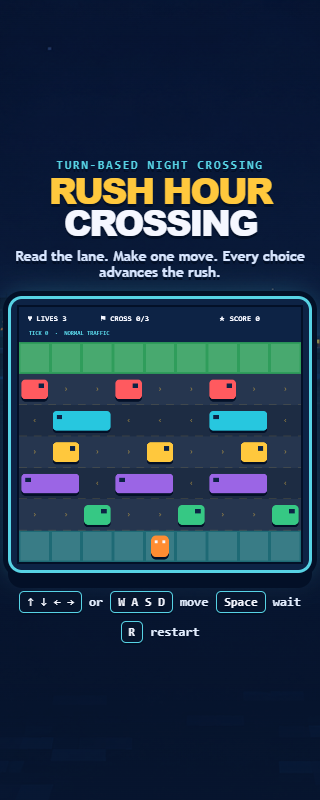
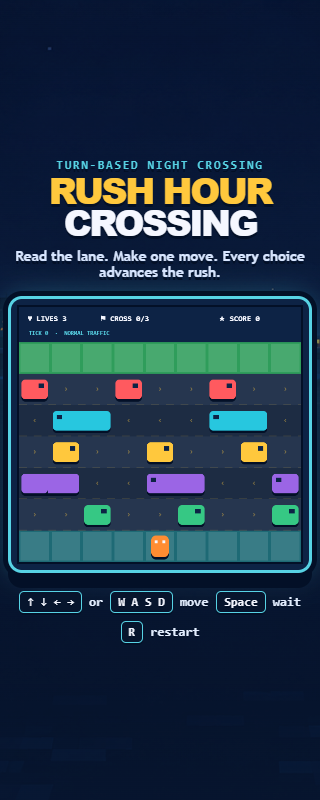
docs: align evidence with the reverted preset and record limitations
Re-verify from code at 26ae68b (clean npm ci, 43 tests, build, audit)
and re-capture screenshots. Record the normal row-4 vehicle overlap and
the unwinnable hard preset as known limitations, mark E4 as failing only
for normal row 4, and show the wrap case with row 2 at tick 4.

Changed region(s): [[0.5312, 0.5938, 0.9375, 0.625], [0.3438, 0.5938, 0.4688, 0.625]]

diff --git a/docs/EVIDENCE_003.md b/docs/EVIDENCE_003.md
@@ -2,12 +2,12 @@
 
 This document has two parts:
 
-1. **Current state.** The only evidence that describes the project as it is now. Every result was produced on 2026-09-23 from the code at commit `d42607f`. Later commits change documentation and evidence files only.
+1. **Current state.** The only evidence that describes the project as it is now. Every result was produced on 2026-09-23 from the code at commit `26ae68b`. Later commits change documentation and evidence files only.
 2. **Development history.** The process record the assignment requires: F0, baseline, controlled change, and later corrections. Numbers in that part were true on their own date and are superseded by part 1.
 
 ---
 
-# Part 1 — Current state (verified 2026-09-23, code at `d42607f`)
+# Part 1 — Current state (verified 2026-09-23, code at `26ae68b`)
 
 ## Environment
 
@@ -23,7 +23,7 @@ All commands were run in sequence from a clean `npm ci`, with no dev server runn
 |---|---:|---|
 | `npm ci` | 0 | Installed from `package-lock.json`; `found 0 vulnerabilities` |
 | `npm run typecheck` | 0 | `tsc --noEmit` completed without diagnostics |
-| `npm run test:run` | 0 | 7 test files, 46 tests passed |
+| `npm run test:run` | 0 | 7 test files, 43 tests passed |
 | `npm run build` | 0 | Vite 8.3.0, 14 modules transformed, production build completed |
 | `npm audit --audit-level=high` | 0 | 0 vulnerabilities (info 0, low 0, moderate 0, high 0, critical 0) across 83 dependencies |
 
@@ -47,7 +47,7 @@ Method: a Vite dev server served the current `main`, and a scripted headless Chr
 | Restart (R7) | after the loss, R | 3 lives, 0/1, score 0, tick 0, `active` | — |
 | Reduced motion | `/`, Space, reduce | `.board-frame` has no `turn-flash` class; transition 0 s; filter and transform `none` | — |
 | Motion allowed | `/`, Space, no-preference | `turn-flash` applied: 0.18 s transition, `brightness(1.13)`, 2 px lift; turn state is identical | — |
-| E4 wrap case | `/`, Space ×2 (normal preset, tick 2) | Row-4 vehicle wrapping across columns 8 and 0 is drawn as two edge segments with one windshield in total | [`e4-wrap-normal-tick2.png`](evidence/e4-wrap-normal-tick2.png) |
+| E4 wrap case | `/`, Space ×4 (normal preset, tick 4) | Row-2 vehicle wrapping across columns 8 and 0 is drawn as two edge segments with one windshield in total. Row 4 in the same image shows the known overlap (see Known limitations) | [`e4-wrap-normal-tick4.png`](evidence/e4-wrap-normal-tick4.png) |
 
 The operating-system reduced-motion setting was not toggled. The media feature was emulated through the DevTools protocol, which is what the CSS query reads.
 
@@ -74,7 +74,7 @@ Page text sits over the decorative backdrop and its darkening gradient. Those ra
 
 ## Evals
 
-E1–E4 were repeated against the current code and passed. The results are in [`EVALS.md`](EVALS.md) under **Current result**.
+E1–E3 were repeated against the current code and pass. E4 passes for every lane except normal-preset row 4 (see Known limitations). The results are in [`EVALS.md`](EVALS.md) under **Current result**.
 
 ## Definition of Done
 
@@ -90,6 +90,8 @@ D1–D8 in `docs/GAME_SPEC.md` link to the rows above and to the tests that prov
 - Visual acceptance uses scripted screenshots and manual review. There is no automated screenshot-comparison test.
 - Keyboard-focus behaviour was verified in the in-app browser. The saved focus image was produced headlessly with `focus({ focusVisible: true })`.
 - Contrast over the bitmap backdrop is measured against its base colour, not per pixel.
+- **Overlapping vehicles in normal row 4.** Starts `[0, 4, 8]` with length 2 make the vehicle at 8 wrap into column 0 in every tick, overlapping the vehicle at 0. One windshield is hidden and the pair looks like a three-cell body with a notch ([`active-desktop.png`](evidence/active-desktop.png), [`e4-wrap-normal-tick4.png`](evidence/e4-wrap-normal-tick4.png)). Collisions and the lane rules are unaffected. A fix must keep the preset winnable. The first attempt (`[0, 3, 6]`) made it unwinnable and was reverted (see Part 2).
+- **The hard preset cannot be won.** An exhaustive search over every reachable state (tick mod 54, player position, lives) found no winning path for `hard`. The player never survives the first lane, because four of five lanes have one-cell gaps and move every tick, so collision check B always hits. The same search found shortest wins of 6 moves for `easy` and 11 for `normal`. This has been true since the baseline. The search was a temporary probe and is not part of the committed test suite. `tests/reachability.test.ts` covers only `easy`.
 
 ---
 
@@ -156,7 +158,7 @@ E1–E3 passed on the baseline with their expectations unchanged. After the tag 
 
 **Result at that time:** Supported. Length-two vehicles became contiguous bodies with one windshield, E1–E3 stayed green, and 6 files / 40 tests passed.
 
-**Later correction:** That visual check missed that normal-preset row 4 had two permanently overlapping vehicles, which hid one windshield. This is fixed in `7c172e7` (see below).
+**Later correction:** That visual check missed that normal-preset row 4 had two permanently overlapping vehicles, which hid one windshield. It is still open (Part 1, Known limitations).
 
 **Limitation:** The check assesses the legibility of fixed geometric vehicles, not animation, sprites, or visual effects.
 
@@ -182,9 +184,9 @@ The pair approved original generated bitmap decoration and discrete non-essentia
 
 ## Consistency pass (2026-09-23)
 
-Re-running every check against the current code found two more defects. Each was fixed as its own small change before this evidence was recorded:
+Re-running every check against the current code found two more defects:
 
-- **Overlapping vehicles (`7c172e7`):** in the normal preset, row 4 (length 2, starts `[0, 4, 8]`) had the vehicle at 8 wrap into column 0 in all 200 checked ticks. It overlapped the vehicle at 0 and hid its windshield. A new test in `tests/presets.test.ts` requires that no two vehicles of a lane share a cell in any preset through tick 199. It failed for normal row 4 (`expected 5 to be 6`). The starts became `[0, 3, 6]`, which occupy 6 of 9 columns, so the lane is never blocked. E1 does not enter row 4 and is unaffected.
+- **Overlapping vehicles — attempted fix reverted (`7c172e7`, reverted in `26ae68b`):** in the normal preset, row 4 (length 2, starts `[0, 4, 8]`) had the vehicle at 8 wrap into column 0 in all 200 checked ticks, hiding one windshield. A test requiring that no two vehicles of a lane share a cell failed for normal row 4, and the starts were changed to `[0, 3, 6]`. The check covered only the non-blocking invariant, not passability. Three vehicles of length 2 leave one-cell gaps, and an exhaustive search later showed that no winning path existed for `normal`. The student noticed the denser lane in play. The change and its test were reverted, which restores the winnable `[0, 4, 8]` and the overlap limitation.
 - **Startup console error and landmarks (`d42607f`):** every page load logged `404 /favicon.ico`, which contradicted D1. `index.html` now declares an empty icon. The `#app` root was a `<main>` that received a second `<main>`; it is now a `<div>`.
 
 ## Git preservation
@@ -196,7 +198,8 @@ Re-running every check against the current code found two more defects. Each was
 | Functional baseline, annotated tag `s003-baseline-v1` | `8091482` |
 | E4 controlled change | `c154822` |
 | Voxel Night City redesign | `ddcb519` |
-| Code verified in Part 1 | `d42607f` |
+| Revert of the preset change | `26ae68b` |
+| Code verified in Part 1 | `26ae68b` |
 
 ## Partner contributions
 

diff --git a/docs/EVALS.md b/docs/EVALS.md
@@ -1,6 +1,6 @@
 # Mini Eval Set — Session 003
 
-Expectations in E1–E3 were recorded on 2026-09-22 before gameplay implementation. Results must be appended without rewriting these expectations. **Current result** is the only result that describes the project now (2026-09-23, code at `d42607f`). Baseline and post-change results are the historical record.
+Expectations in E1–E3 were recorded on 2026-09-22 before gameplay implementation. Results must be appended without rewriting these expectations. **Current result** is the only result that describes the project now (2026-09-23, code at `26ae68b`). Baseline and post-change results are the historical record.
 
 ## E1 — Typical deterministic play
 
@@ -12,7 +12,7 @@ Expectations in E1–E3 were recorded on 2026-09-22 before gameplay implementati
 
 **Post-change result:** PASS. The unchanged 100-run determinism test passed against the normal preset and the final tick remained 6.
 
-**Current result:** PASS. The unchanged 100-run determinism test in `tests/turn.test.ts` passes. The final state is tick 6, player `(5, 6)`, 1 life, 0 crossings, status `active`. The sequence only enters rows 5 and 6, so the row-4 preset correction in `7c172e7` does not affect this case.
+**Current result:** PASS. The unchanged 100-run determinism test in `tests/turn.test.ts` passes. The final state is tick 6, player `(5, 6)`, 1 life, 0 crossings, status `active`. The sequence only enters rows 5 and 6. The normal preset is the same as in the baseline.
 
 ## E2 — Grid boundary consumes a turn
 
@@ -50,6 +50,6 @@ Expectations in E1–E3 were recorded on 2026-09-22 before gameplay implementati
 
 **Post-change result:** PASS. Post-change browser inspection shows length-two vehicles as contiguous two-cell bodies with one directional windshield. The wrapped vehicle is split only by the physical board boundary and has one windshield across its two segments.
 
-**Correction to the post-change result:** that inspection missed normal-preset row 4. Starts `[0, 4, 8]` with length 2 made the vehicle at 8 wrap into column 0 and overlap the vehicle at 0 in every tick, which hid one windshield. It is fixed in `7c172e7`, and a preset test now forbids overlapping vehicles.
+**Correction to the post-change result:** that inspection missed normal-preset row 4. Starts `[0, 4, 8]` with length 2 made the vehicle at 8 wrap into column 0 and overlap the vehicle at 0 in every tick, which hid one windshield. A fix (`7c172e7`, starts `[0, 3, 6]`) removed the overlap but left one-cell gaps that made the normal preset unwinnable, so it was reverted in `26ae68b`. The overlap is still open.
 
-**Current result:** PASS. At tick 0 of the normal preset every configured vehicle is one contiguous body with one directional windshield, including three separate length-two vehicles in row 4 ([`evidence/active-desktop.png`](evidence/active-desktop.png)). At tick 2 the row-4 vehicle crossing the board edge is drawn as two edge segments with one windshield in total ([`evidence/e4-wrap-normal-tick2.png`](evidence/e4-wrap-normal-tick2.png)). For comparison, the baseline failure is re-captured from the tag in [`evidence/baseline-active-normal.png`](evidence/baseline-active-normal.png).
+**Current result:** PASS for every lane except normal-preset row 4, which FAILs. The renderer draws each configured vehicle as one contiguous body with one directional windshield ([`evidence/active-desktop.png`](evidence/active-desktop.png)). At tick 4 the row-2 vehicle crossing the board edge is drawn as two edge segments with one windshield in total ([`evidence/e4-wrap-normal-tick4.png`](evidence/e4-wrap-normal-tick4.png)). In normal row 4, two configured vehicles occupy the same cell in every tick, so the pair looks like one three-cell body with a notch and one windshield is hidden. The cause is the preset data, not the renderer. It stays open until a change is found that removes the overlap and keeps the preset winnable. For comparison, the baseline failure is re-captured from the tag in [`evidence/baseline-active-normal.png`](evidence/baseline-active-normal.png).

diff --git a/docs/GAME_SPEC.md b/docs/GAME_SPEC.md
@@ -128,11 +128,11 @@ TypeScript/JavaScript browser aplikacija na postojećem starteru, HTML/CSS/Canva
 - [x] **D3** Determinizam: isti config i isti niz akcija daje identično stanje (test).
   - Dokaz: `tests/turn.test.ts` → *is deterministic for the same config and action sequence*; eval E1 u `EVALS.md` → *Current result*.
 - [x] **D4** Za sva tri difficulty preseta nijedna traka nije potpuno blokirana ni u jednom tick-u 0..199 (test).
-  - Dokaz: `tests/presets.test.ts` → *never-blocked traffic lanes through tick 199* za `easy`, `normal` i `hard`; dodatno *never places two vehicles of one lane in the same cell through tick 199*.
+  - Dokaz: `tests/presets.test.ts` → *never-blocked traffic lanes through tick 199* za `easy`, `normal` i `hard`.
 - [x] **D5** Validacija konfiguracije prihvata validne primere i odbija svih 5 nevalidnih primera iznad uz listu grešaka; pri nevalidnom ulazu igra koristi default i prikazuje poruku (test + screenshot).
   - Dokaz: `tests/config.test.ts` (validan primer, svih 5 nevalidnih primera, kombinovani nevalidan upit); screenshot `docs/evidence/d5-invalid-config.png`, opisan u `EVIDENCE_003.md` → *Part 1 — Current state* → *Browser checks*.
 - [x] **D6** Pobeda i poraz su dostižni odigravanjem (screenshot ili zapis).
-  - Dokaz: screenshotovi `docs/evidence/d6-win.png` (šest `W` → `won`, „CITY CROSSED!“) i `docs/evidence/d6-loss.png` (`W, W, D, W, W, W` → `lost`, „GAME OVER“), sa `crossingsToWin=1&difficulty=easy`; testovi `tests/turn.test.ts`, `tests/reachability.test.ts` i `tests/end-message.test.ts` (tekst poruke odgovara statusu); zapis u `EVIDENCE_003.md` → *Part 1 — Current state* → *Browser checks*.
+  - Dokaz: screenshotovi `docs/evidence/d6-win.png` (šest `W` → `won`, „CITY CROSSED!“) i `docs/evidence/d6-loss.png` (`W, W, D, W, W, W` → `lost`, „GAME OVER“), sa `crossingsToWin=1&difficulty=easy`; testovi `tests/turn.test.ts`, `tests/reachability.test.ts` i `tests/end-message.test.ts` (tekst poruke odgovara statusu); zapis u `EVIDENCE_003.md` → *Part 1 — Current state* → *Browser checks*. Ograničenje: pobeda je dostižna u `easy` (6 poteza) i `normal` (11 poteza), ali ne i u `hard` preset-u (`EVIDENCE_003.md` → *Known limitations*).
 - [x] **D7** `EVALS.md` ima najmanje 4 slučaja sa očekivanjem upisanim pre pokretanja.
   - Dokaz: `EVALS.md` E1–E4 (tipičan, granični, nevalidan, regresioni); E1–E3 upisani pre implementacije u commitu `3221951`; svi imaju *Current result*.
 - [x] **D8** Ništa iz OUT OF SCOPE nije dodato i u repou nema tajni.

diff --git a/docs/AI_USAGE_LOG.md b/docs/AI_USAGE_LOG.md
@@ -37,4 +37,11 @@
 - **Why AI was involved**: At the student's request, re-verify the whole project against the current code, remove stale evidence, and make the documentation consistent.
 - **Result**: The fresh checks exposed two defects: overlapping vehicles in normal-preset row 4 and a favicon 404 on every page load. They also exposed a nested `main` landmark and stale documentation claims (test counts, a 5 px focus outline, a 960 px max width, Node 22 in the quickstarts, and baseline screenshots that were never saved).
 - **Decisions recorded**: The student chose a test-first preset fix (`7c172e7`) over only documenting the problem. The console and landmark fix went in `d42607f`. `EVIDENCE_003.md` was restructured into *Current state* and *Development history*, and every current claim was re-measured.
-- **Verification signal**: A clean `npm ci`, typecheck, 7 files / 46 tests, build, and audit (0 vulnerabilities) pass. Scripted browser checks and screenshots were taken from code at `d42607f`, and the baseline board was re-captured from tag `s003-baseline-v1`.
+- **Verification signal (at that commit)**: A clean `npm ci`, typecheck, 7 files / 46 tests, build, and audit (0 vulnerabilities) pass. Scripted browser checks and screenshots were taken from code at `d42607f`, and the baseline board was re-captured from tag `s003-baseline-v1`.
+
+## Preset change reverted — 2026-09-23
+
+- **Why AI was involved**: The student noticed in play that normal row 4 had become denser after `7c172e7` and asked why.
+- **Result**: The row speed had not changed (`moveEveryTicks: 2` since the baseline). Starts `[0, 3, 6]` left one-cell gaps. An exhaustive search over reachable states (a temporary probe, not committed) found no winning path for `normal` after the change (11 moves before it), and none for `hard` since the baseline. The earlier check had covered only the non-blocking invariant, not passability.
+- **Decision recorded**: The student chose to remove the change. It was reverted in `26ae68b`, which restores the winnable `[0, 4, 8]`. The row-4 overlap and the unwinnable `hard` preset are recorded as known limitations in `EVIDENCE_003.md`, not fixed.
+- **Verification signal**: A clean `npm ci`, typecheck, 7 files / 43 tests, build, and audit (0 vulnerabilities) pass on `26ae68b`. Screenshots were re-captured from that code.

diff --git a/security.md b/security.md
@@ -33,7 +33,7 @@ Command: `npm audit --audit-level=high`
 
 | Kind | Date | Dependency graph | Result |
 |---|---|---|---|
-| Current check | 2026-09-23 | `main`, code at `d42607f`, after a clean `npm ci` | Exit 0; 0 vulnerabilities (info 0, low 0, moderate 0, high 0, critical 0) across 83 dependencies |
+| Current check | 2026-09-23 | `main`, code at `26ae68b`, after a clean `npm ci` | Exit 0; 0 vulnerabilities (info 0, low 0, moderate 0, high 0, critical 0) across 83 dependencies |
 | Historical | 2026-09-23 | Voxel Night City redesign validation | No result: the npm advisory endpoint failed; no clean audit claimed |
 | Historical | 2026-09-22 | Functional baseline and controlled change | Exit 0; zero vulnerabilities reported |
 
